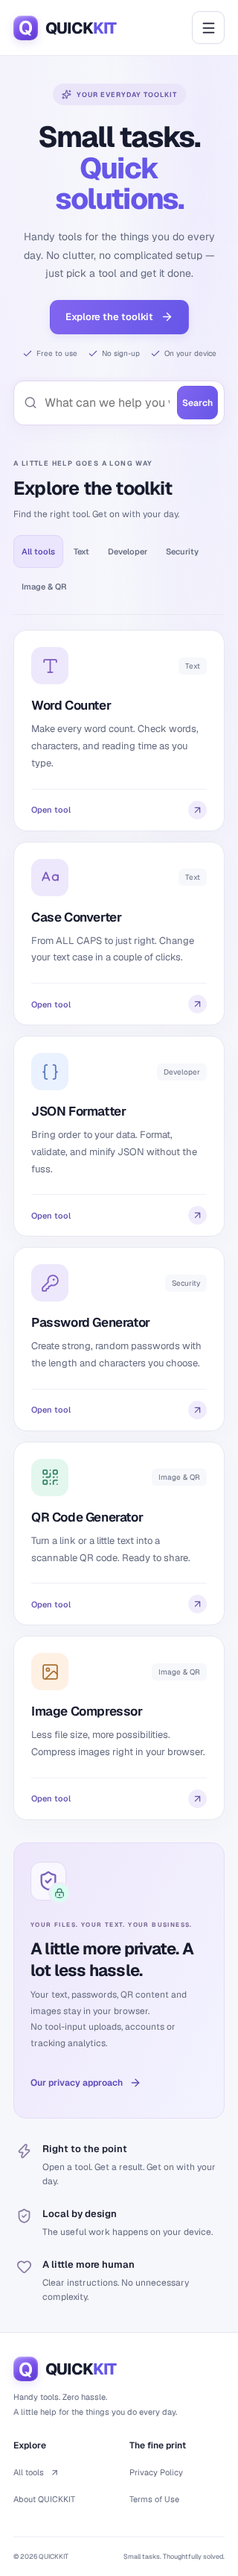
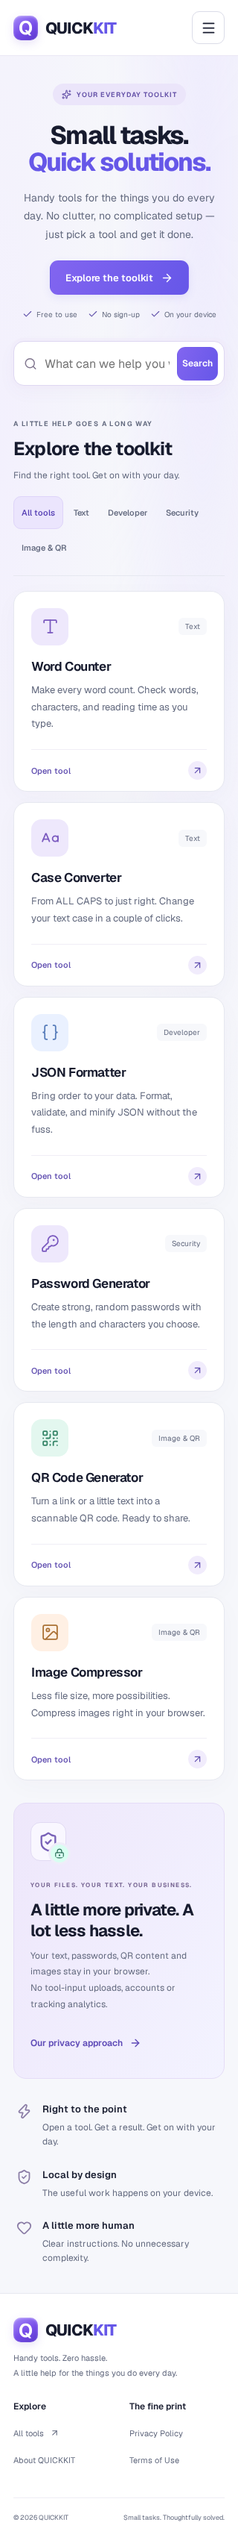
fix: refine narrow mobile hero and reverify full browser suite

diff --git a/app/globals.css b/app/globals.css
@@ -1410,7 +1410,7 @@ details p {
     letter-spacing: 1px;
   }
   .hero h1 {
-    font-size: clamp(39px, 10vw, 52px);
+    font-size: clamp(34px, 10vw, 52px);
     letter-spacing: -1.9px;
     margin: 22px 0 17px;
   }

diff --git a/docs/FINAL_QUALITY_AUDIT.md b/docs/FINAL_QUALITY_AUDIT.md
@@ -13,6 +13,7 @@ Reviewed tracked application/routes, client components, tool logic, discovery/na
 | Image dimensions were checked after browser decode/preview | Bounded JPEG/PNG/WebP file-header preflight before preview selection and processing, with MIME/signature/dimension checks | 11 header tests, real three-format inputs, oversize-dimension pre-preview rejection, three-browser downloads/pixel checks |
 | JSON overflow (e.g. `1e400`) could silently stringify as null | Reject non-finite parsed numbers with an actionable error | Regression unit test; large/deep/invalid JSON coverage retained |
 | Word Counter could retain “Copied” feedback for edited input | Reset copy component state when text changes | Actual clipboard readback followed by changed-input assertion |
+| 320px hero heading wrapped the emphasized phrase across two extra lines | Refined fluid mobile heading minimum to 34px | Updated 320px screenshot and responsive regression |
 | Small mobile form text could trigger iOS focus zoom | Minimum 16px editable text/search/select sizing on small screens | Responsive tests and 320px screenshot review; real physical iOS test remains owner acceptance |
 | Node range/CI could select an unverified or obsolete major | Pin project engines, `.nvmrc` and CI to Node 22 | Node 22.23.4 clean npm ci, lint, tests, build and type-check passed; provider docs confirm Node 22 support |
 | npm initializer assigned ISC without an owner licence decision | Retain private package and use UNLICENSED pending owner choice | Owner-input checklist explicitly records licensing decision; no new open-source grant made |

diff --git a/QUICKKIT_AGENT_BRAIN_FINAL.md b/QUICKKIT_AGENT_BRAIN_FINAL.md
@@ -730,3 +730,5 @@ This FINAL Brain supersedes the earlier master. The original earlier Brain and u
 - Authoritative launch runbook is now root **RELEASE_CHECKLIST.md**. Earlier docs/checklist points to it. Full quality report `docs/FINAL_QUALITY_AUDIT.md`; no public release or absolute security/compliance claim.
 
 - Final expanded unit total **70/70 passed**, including real approved/unapproved robots/sitemap outputs. Additional populated workspace axe/overflow checks and reduced-motion behavior passed; final icons/robots/sitemap/header HTTP smoke checks passed. Generated root checklist plus owner-input and security review documents. A self-contained Git bundle is exported outside the repo for a history-preserving handoff; no remote publication is implied.
+
+- Final screenshot review refined the 320px hero heading clamp to keep “Quick solutions.” together. Rebuilt/restarted the production preview and reran the complete browser suite again: 123 passed, 2 documented capability skips. Updated screenshot and verified the emphasized phrase occupies one line.
